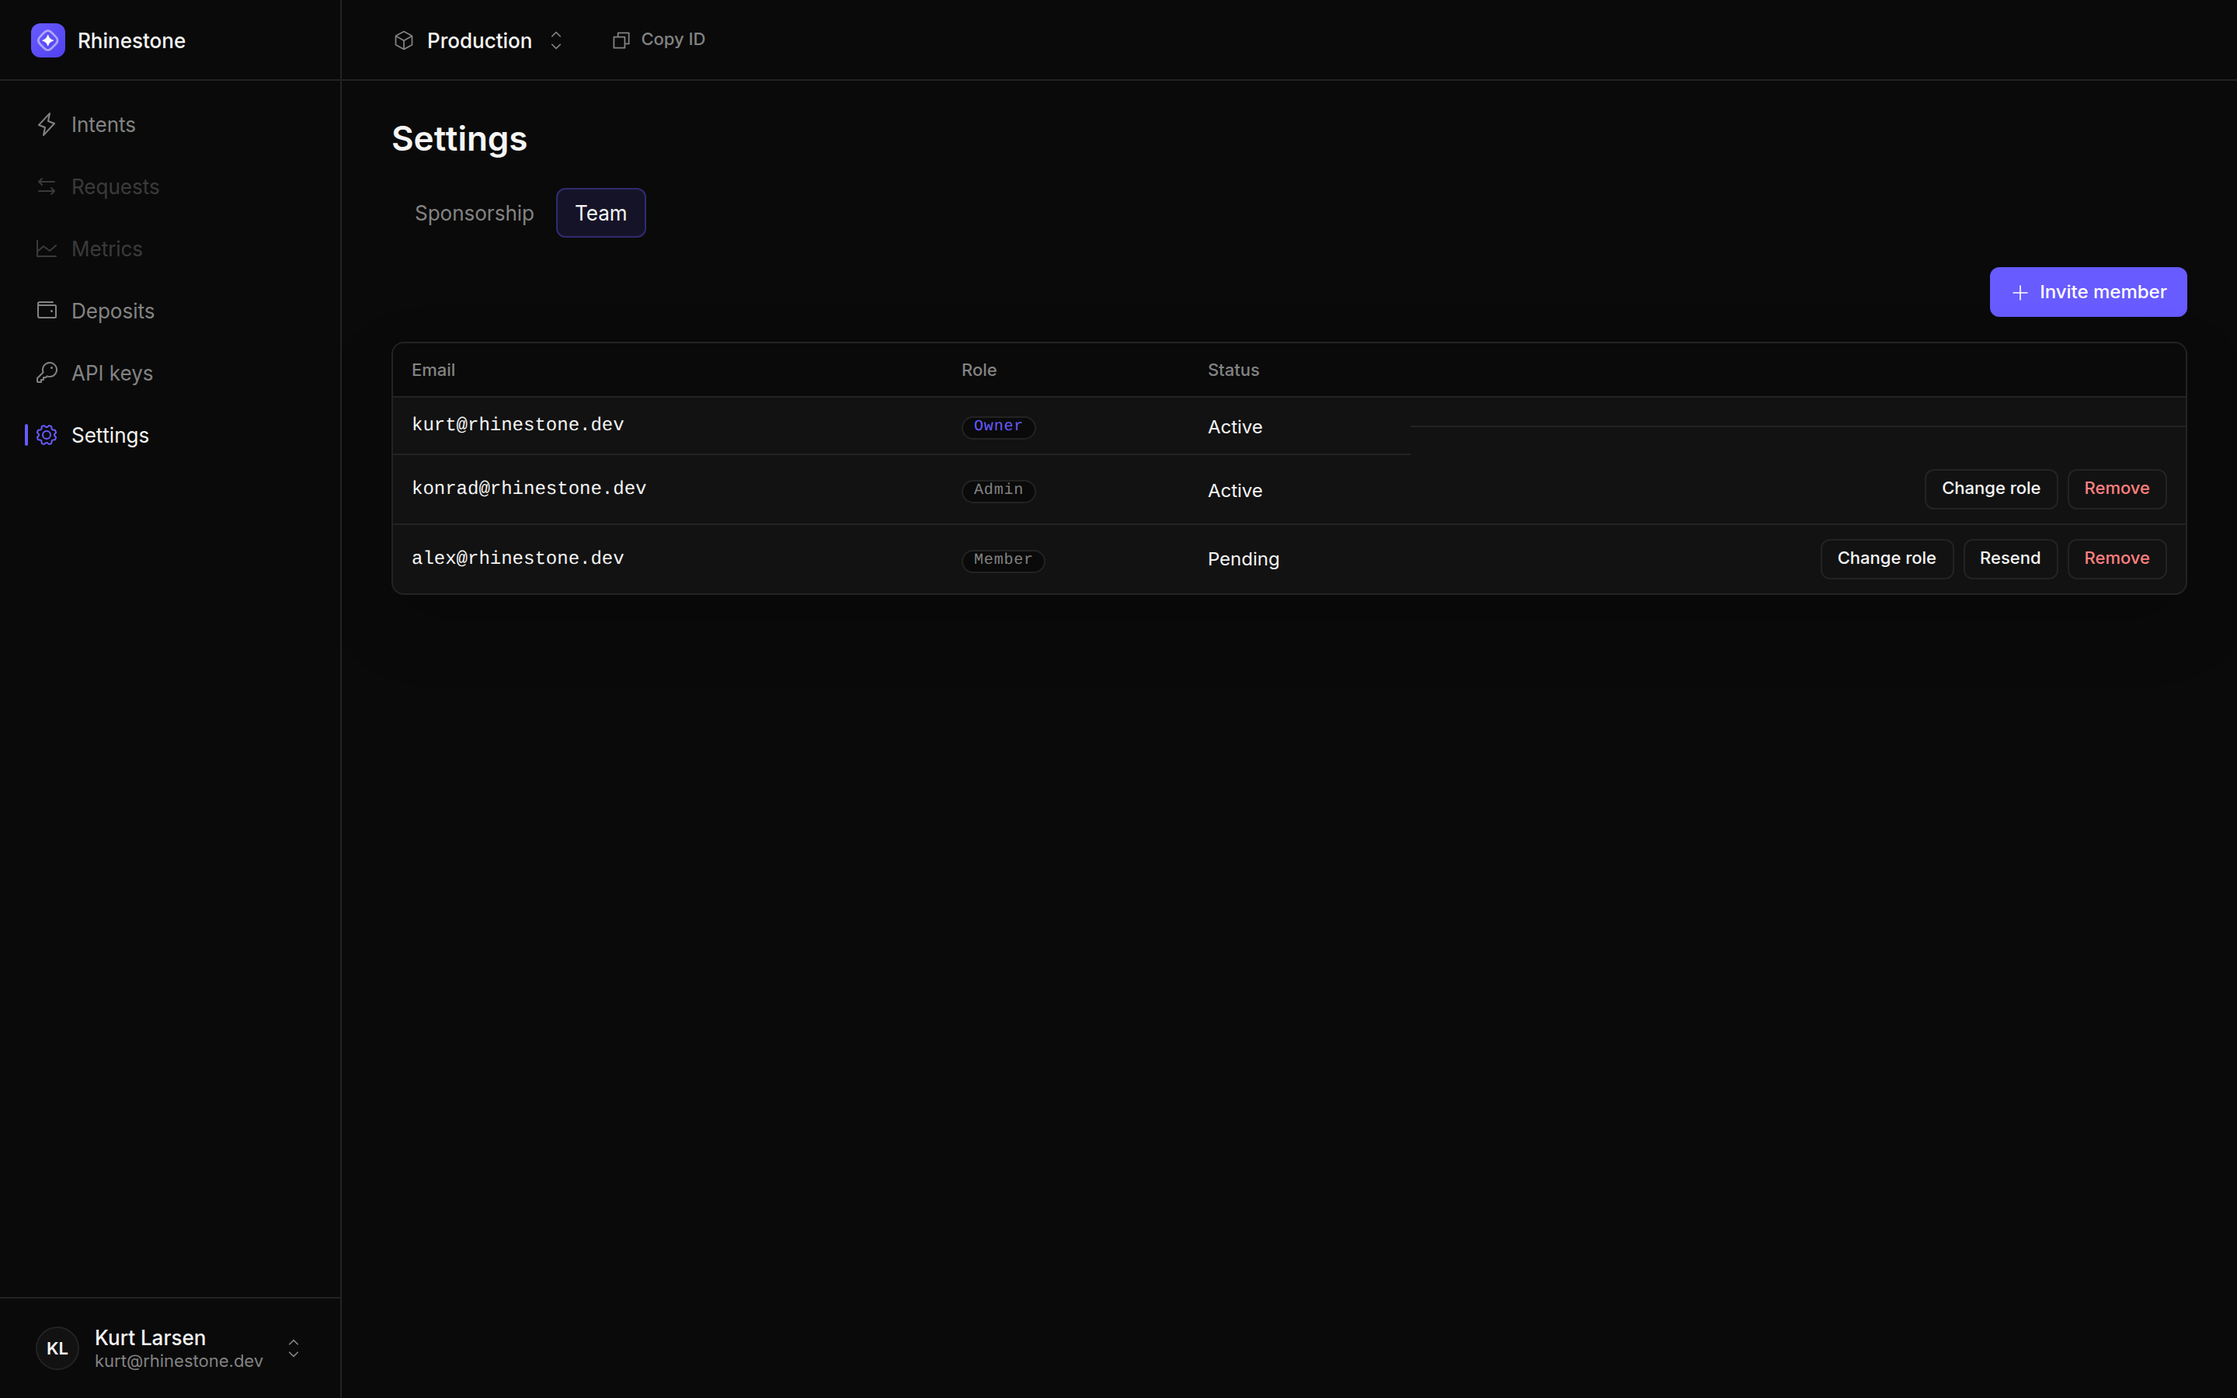
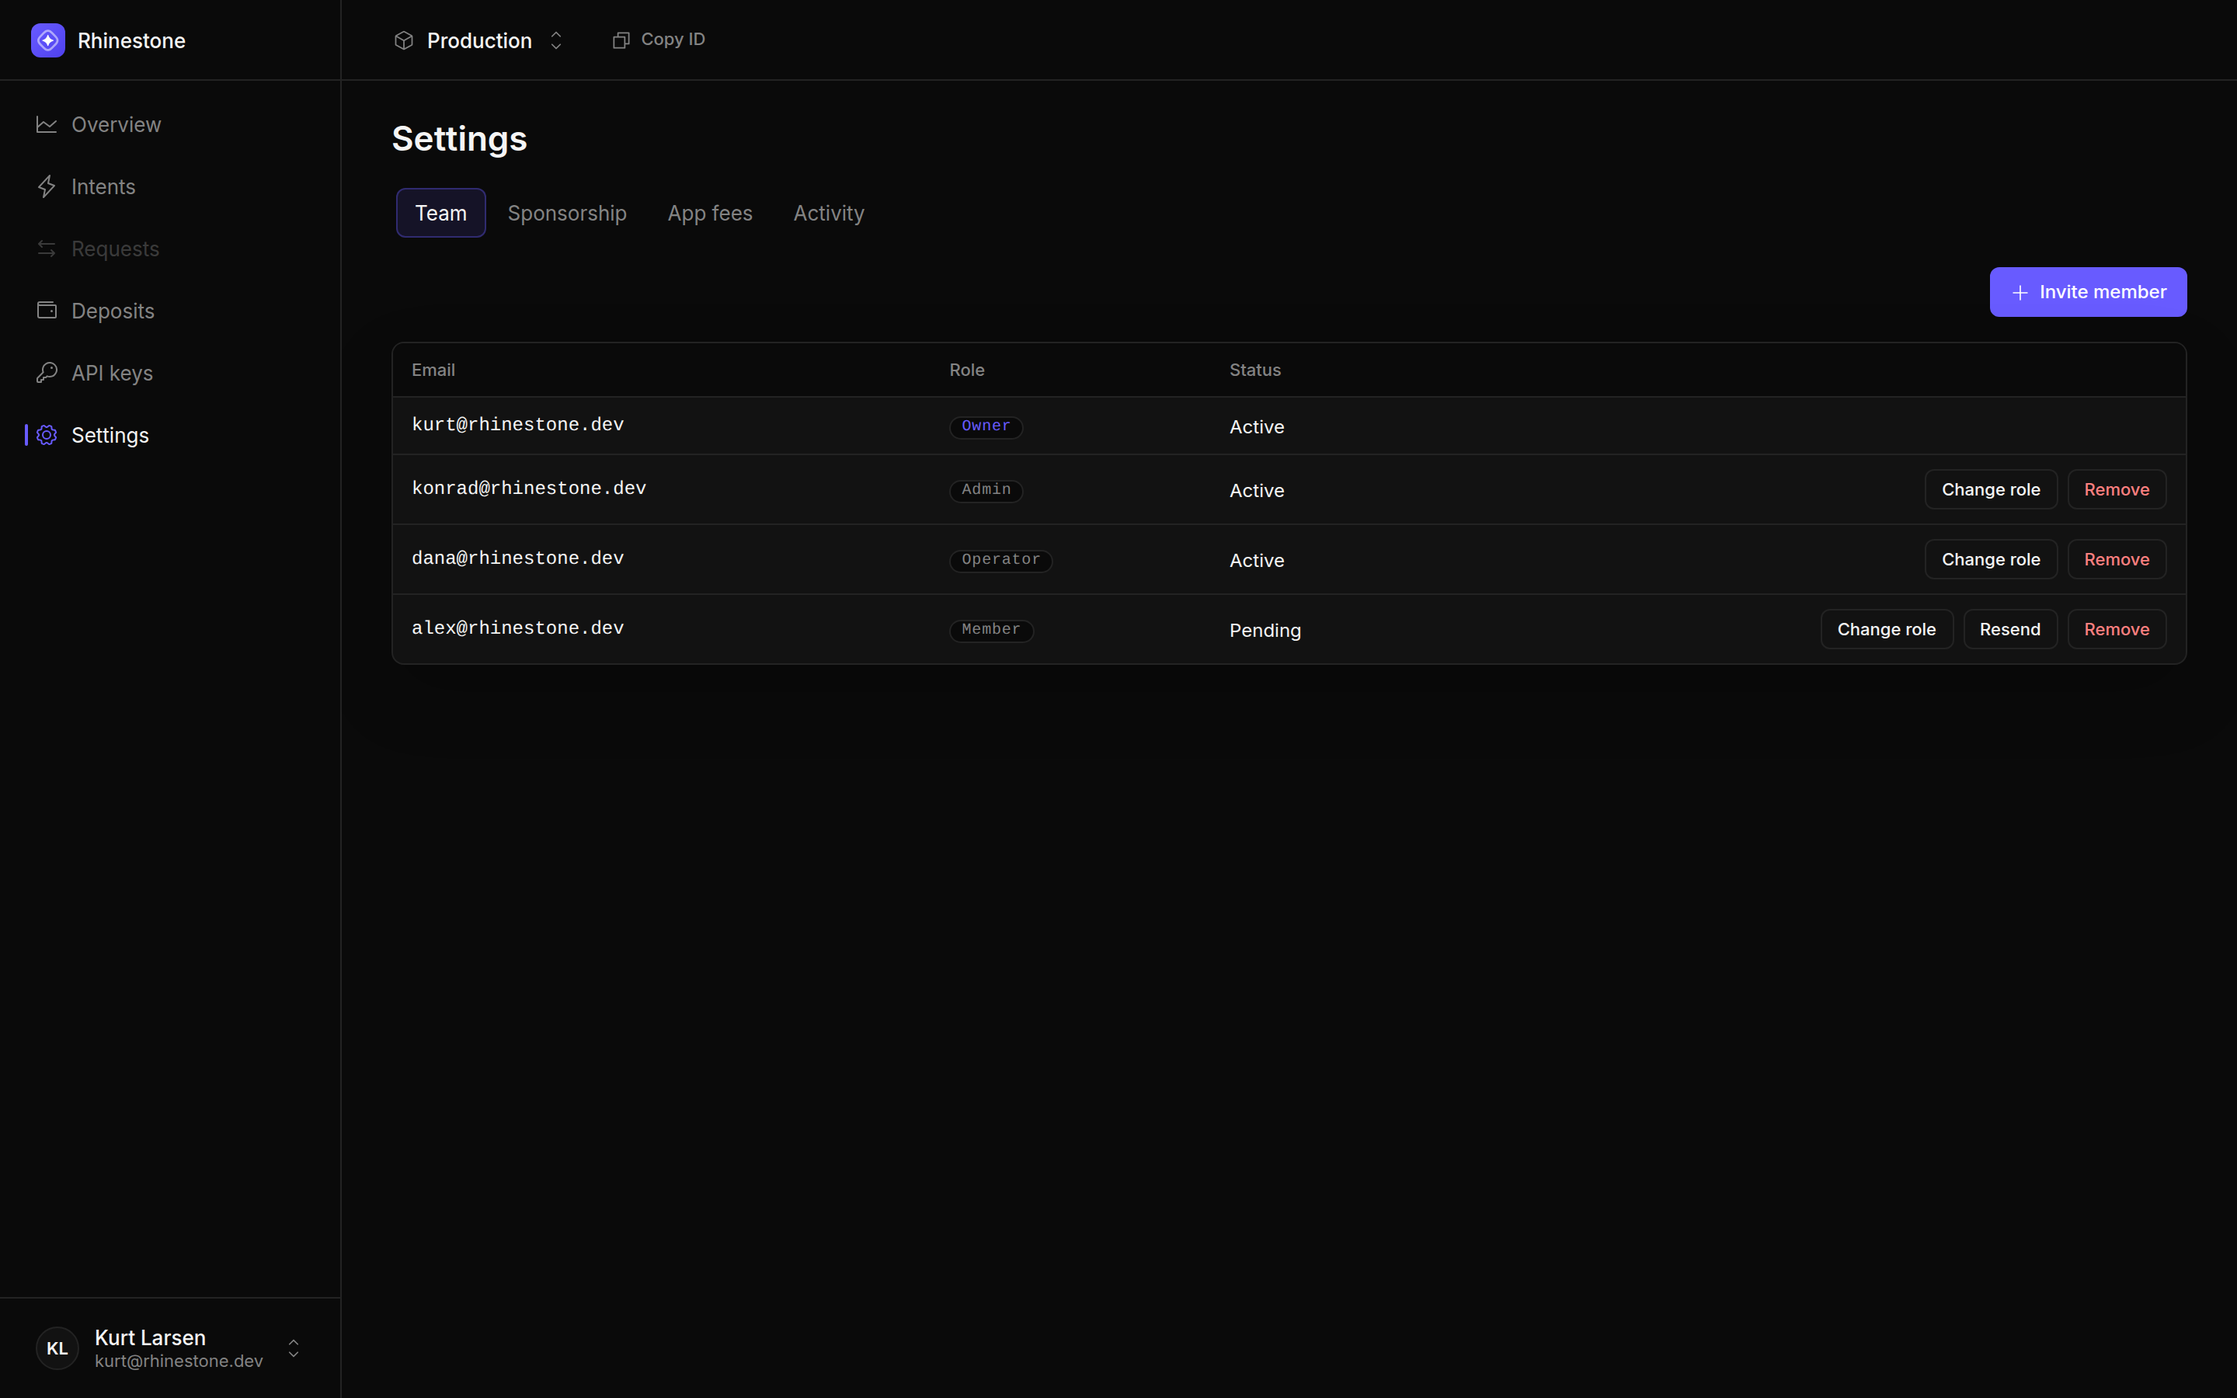
docs: refresh the dashboard screenshots after the console redesign
Re-capture the access, api-keys, team, jwt-keys and deposits images against
today's console, and fix the guide prose the product outgrew: the sidebar
section list (Overview exists, Settings holds four tabs), the retry warning
(retry is per-deposit, not per-address) and the team roles (Operator).

Tooling: the mock now also serves the dashboard-api chain catalog and metrics
overview through the console's Vite proxy, deposit fixtures match the current
row shape and are addressable by id, and the capture script reaches JWT Disable
via the key drawer and shoots retry from the deposit page.

diff --git a/.claude/skills/update-screenshots/scripts/mock-user-service.ts b/.claude/skills/update-screenshots/scripts/mock-user-service.ts
@@ -2,6 +2,10 @@
 // Returns stubbed JSON for every endpoint the dashboard hits, with CORS that
 // satisfies credentials:'include' from the Vite dev origin.
 //
+// It also answers the dashboard-api surface (`/api/*`: the chain catalog and the
+// metrics overview), which the console calls same-origin — its Vite dev server
+// proxies `/api` to this port, so one server covers both origins.
+//
 // Run: bun run mock-user-service.ts   (listens on :3000)
 // Edit the data constants below to change what renders in the screenshots.
 
@@ -55,6 +59,7 @@ const ORG = {
   members: [
     { id: 'm_kurt', role: 'OWNER', status: 'ACTIVE', email: 'kurt@rhinestone.dev', user: { name: 'Kurt Larsen', image: '', email: 'kurt@rhinestone.dev' } },
     { id: 'm_konrad', role: 'ADMIN', status: 'ACTIVE', email: 'konrad@rhinestone.dev', user: { name: 'Konrad Kopp', image: '', email: 'konrad@rhinestone.dev' } },
+    { id: 'm_dana', role: 'OPERATOR', status: 'ACTIVE', email: 'dana@rhinestone.dev', user: { name: 'Dana Reid', image: '', email: 'dana@rhinestone.dev' } },
     { id: 'm_alex', role: 'MEMBER', status: 'PENDING', email: 'alex@rhinestone.dev', user: null },
   ],
 }
@@ -79,26 +84,148 @@ const ORG_SPONSORSHIP = {
 // caps throw while rendering.
 const POLICY_CONFIG = { gasLimitPerIntentUsd: 0.5, bridgeFeeLimitPerIntentUsd: null, limitPerIntentUsd: 5, version: 3 }
 
+// Chain catalog, as the dashboard api serves it (deposit-service `/chains`,
+// normalized). The console takes chain names, the native symbol and the explorer
+// paths from here; with it missing, chain columns fall back to raw CAIP-2 ids and
+// explorer links render as plain text.
+const evmChain = (name: string, explorer: string, native = 'ETH') => ({
+  name, testnet: false, deposit: true, destination: true, vmType: 'evm' as const,
+  nativeToken: { symbol: native, address: '0x0000000000000000000000000000000000000000', decimals: 18 },
+  explorer: { url: explorer, addressPath: '/address/', txPath: '/tx/' },
+  supportedTokens: 'all' as const,
+})
+
+const CHAINS = {
+  'eip155:1': evmChain('Ethereum', 'https://etherscan.io'),
+  'eip155:10': evmChain('OP Mainnet', 'https://optimistic.etherscan.io'),
+  'eip155:56': evmChain('BNB Smart Chain', 'https://bscscan.com', 'BNB'),
+  'eip155:8453': evmChain('Base', 'https://basescan.org'),
+  'eip155:42161': evmChain('Arbitrum One', 'https://arbiscan.io'),
+}
+
+// Metrics overview (dashboard api), which the Overview page needs to render
+// anything but its "Data not available" fallback. The console asks for 30 daily
+// buckets by default; the walk is seeded rather than random so a re-capture
+// reproduces the same bars instead of churning the PNGs.
+const OVERVIEW_DAYS = 30
+
+function walk(seed: number, mean: number, spread: number): number[] {
+  let state = seed >>> 0
+  const next = (): number => {
+    state = (state * 1664525 + 1013904223) >>> 0
+    return state / 0x1_0000_0000
+  }
+  let level = mean
+  const values: number[] = []
+  for (let i = 0; i < OVERVIEW_DAYS; i++) {
+    level += (mean - level) * 0.3 + (next() - 0.5) * spread
+    values.push(Math.max(0, Math.round(level)))
+  }
+  return values
+}
+
+function bucketStart(daysAgo: number): string {
+  const date = new Date(Date.now() - daysAgo * DAY)
+  date.setUTCHours(0, 0, 0, 0)
+  return date.toISOString()
+}
+
+// `total` defaults to the sum of the buckets. Distinct-count metrics (users) pass
+// their own window-wide count, which has to be BELOW that sum — a total above it
+// reads as a data bug to anyone who looks at the chart closely.
+const series = (values: number[], delta: number | null, total?: number) => ({
+  points: values.map((value, i) => ({ date: bucketStart(OVERVIEW_DAYS - 1 - i), value })),
+  total: total ?? values.reduce((sum, value) => sum + value, 0),
+  delta,
+})
+
+const distinct = (values: number[], share: number) =>
+  Math.round(values.reduce((sum, value) => sum + value, 0) * share)
+
+const INTENT_USERS = walk(31, 96, 70)
+const DEPOSIT_USERS = walk(61, 61, 44)
+
+const OVERVIEW = {
+  range: { start: bucketStart(OVERVIEW_DAYS - 1), end: bucketStart(0) },
+  metrics: {
+    intents: {
+      volume: series(walk(11, 40_500, 26_000), 0.14),
+      count: series(walk(21, 313, 190), 0.09),
+      users: series(INTENT_USERS, 0.21, distinct(INTENT_USERS, 0.48)),
+    },
+    deposits: {
+      volume: series(walk(41, 14_100, 9_000), -0.07),
+      count: series(walk(51, 104, 62), 0.05),
+      users: series(DEPOSIT_USERS, 0.12, distinct(DEPOSIT_USERS, 0.49)),
+    },
+    chains: {
+      sources: [
+        { label: 'Base', value: 486_200 },
+        { label: 'Arbitrum One', value: 312_400 },
+        { label: 'OP Mainnet', value: 168_900 },
+        { label: 'Ethereum', value: 121_500 },
+        { label: 'Other', value: 74_300, isOther: true },
+      ],
+      destinations: [
+        { label: 'Base', value: 552_800 },
+        { label: 'Arbitrum One', value: 274_100 },
+        { label: 'Ethereum', value: 194_600 },
+        { label: 'OP Mainnet', value: 96_400 },
+        { label: 'Other', value: 45_400, isOther: true },
+      ],
+    },
+    revenue: series(walk(71, 121, 84), 0.26),
+  },
+}
+
 const USDC_BASE = '0x833589fCD6eDb6E08f4c7C32D4f71b54bdA02913'
 const USDC_ARB = '0xaf88d065e77c8cC2239327C5EDb3A432268e5831'
+const USDT_BSC = '0x55d398326f99059fF775485246999027B3197955'
 
+// Deposit rows as deposit-service serves them: addressed by a numeric `id`, with
+// the deposit address and the recipient as separate fields, and the token symbol
+// and decimals resolved per row. A null symbol renders as a short address and null
+// decimals render raw base units — correct product behavior, but both read as
+// breakage in a guide, so every fixture carries them.
 const deposit = (o: Record<string, unknown>) => ({
-  chain: 'eip155:42161', txHash: '0x' + '00'.repeat(32), token: USDC_ARB, amount: '100000000',
-  sender: '0x1111111111111111111111111111111111111111', account: '0x2222222222222222222222222222222222222222',
+  id: '90210', chain: 'eip155:42161', txHash: '0x' + '00'.repeat(32), token: USDC_ARB, amount: '100000000',
+  tokenSymbol: 'USDC', tokenDecimals: 6, targetTokenSymbol: 'USDC', targetTokenDecimals: 6,
+  sender: '0x1111111111111111111111111111111111111111',
+  depositAddress: '0x2222222222222222222222222222222222222222',
+  recipient: '0x7d1afa7b718fb893db30a3abc0cfc608aacfebb0',
   targetChain: 'eip155:8453', targetToken: USDC_BASE, status: 'completed', errorCode: null, retryable: false,
   sourceTxHash: '0x' + '11'.repeat(32), destinationTxHash: '0x' + '22'.repeat(32),
-  sourceAmount: '100000000', destinationAmount: '99800000', createdAt: ago(2 * HOUR), completedAt: ago(2 * HOUR + 30_000), ...o,
+  sourceAmount: '100000000', destinationAmount: '99800000',
+  sponsoredGasUsd: '0.18', sponsoredBridgeFeeUsd: '0.09',
+  createdAt: ago(2 * HOUR), completedAt: ago(2 * HOUR + 30_000), ...o,
+})
+
+// failed on an EVM chain -> carries both Retry and Refund (Refund needs
+// OWNER/ADMIN/OPERATOR). Also what the deposit detail route serves. A deposit
+// that never settled has no sponsorship accounting, so those fields stay off and
+// the sponsored-value panel hides itself.
+const FAILED_DEPOSIT = deposit({
+  id: '90244', txHash: '0xc3' + '00'.repeat(31), chain: 'eip155:56', token: USDT_BSC,
+  tokenSymbol: 'USDT', tokenDecimals: 18, status: 'failed', retryable: true, errorCode: 'BRIDGE-1',
+  amount: '120000000000000000000', sourceAmount: '120000000000000000000', destinationAmount: null,
+  sourceTxHash: '0x' + '33'.repeat(32), destinationTxHash: null, completedAt: null, createdAt: ago(50 * MIN),
+  depositAddress: '0x5555555555555555555555555555555555555555',
+  recipient: '0x9f2c4b8de3a1057e6b0c8d4f2a9e7b135c60d8a4',
+  sponsoredGasUsd: undefined, sponsoredBridgeFeeUsd: undefined,
 })
 
 const DEPOSITS = [
-  deposit({ txHash: '0xa1' + '00'.repeat(31), amount: '250000000', sourceAmount: '250000000', destinationAmount: '249500000', createdAt: ago(35 * MIN), completedAt: ago(34 * MIN), account: '0x3333333333333333333333333333333333333333' }),
-  deposit({ txHash: '0xb2' + '00'.repeat(31), chain: 'eip155:8453', token: USDC_BASE, status: 'processing', amount: '50000000', sourceAmount: '50000000', destinationAmount: null, destinationTxHash: null, completedAt: null, createdAt: ago(6 * MIN), account: '0x4444444444444444444444444444444444444444' }),
-  // failed + retryable on an EVM chain -> shows both Retry and Refund (OWNER/ADMIN)
-  deposit({ txHash: '0xc3' + '00'.repeat(31), chain: 'eip155:56', token: '0x55d398326f99059fF775485246999027B3197955', status: 'failed', retryable: true, errorCode: 'BRIDGE-1', amount: '120000000000000000000', sourceAmount: '120000000000000000000', destinationAmount: null, sourceTxHash: '0x' + '33'.repeat(32), destinationTxHash: null, completedAt: null, createdAt: ago(50 * MIN), account: '0x5555555555555555555555555555555555555555' }),
-  deposit({ txHash: '0xd4' + '00'.repeat(31), createdAt: ago(3 * HOUR), completedAt: ago(3 * HOUR - 40_000), account: '0x6666666666666666666666666666666666666666' }),
+  deposit({ id: '90251', txHash: '0xa1' + '00'.repeat(31), amount: '250000000', sourceAmount: '250000000', destinationAmount: '249500000', createdAt: ago(35 * MIN), completedAt: ago(34 * MIN), depositAddress: '0x3333333333333333333333333333333333333333', recipient: '0x4c1b6f0d92a7e8534bb0cd1e7f6a2093d85be417' }),
+  deposit({ id: '90248', txHash: '0xb2' + '00'.repeat(31), chain: 'eip155:8453', token: USDC_BASE, targetChain: 'eip155:42161', targetToken: USDC_ARB, status: 'processing', amount: '50000000', sourceAmount: '50000000', destinationAmount: null, destinationTxHash: null, completedAt: null, createdAt: ago(6 * MIN), depositAddress: '0x4444444444444444444444444444444444444444', recipient: '0xe3708a6b41d95c27f0a4d2b9e56718cf3d0a9b52' }),
+  FAILED_DEPOSIT,
+  deposit({ id: '90232', txHash: '0xd4' + '00'.repeat(31), createdAt: ago(3 * HOUR), completedAt: ago(3 * HOUR - 40_000), depositAddress: '0x6666666666666666666666666666666666666666', recipient: '0xb85d2f0a6c194e73df85a0b4c72e9163fa2d5e08' }),
 ]
 
 const DEPOSIT_STATS = { totalDeposits: 1284, uniqueUsers: 342, volumeUsd: '48213.55' }
+
+// Deposit detail is fetched by id. Matched on a digits-only pattern so it can't
+// shadow the sibling `/deposits/stats` and `/deposits/config` paths.
+const DEPOSIT_BY_ID = /^\/users\/me\/deposits\/\d+$/
 
 let intentSeq = 0
 const intent = (o: Record<string, unknown>) => ({
@@ -154,6 +281,9 @@ Bun.serve({
     if (p.endsWith('/policy-config') && m === 'GET') return json(POLICY_CONFIG)
     if (p === '/users/me/deposits' && m === 'GET') return json({ deposits: DEPOSITS, nextCursor: null })
     if (p === '/users/me/deposits/stats') return json(DEPOSIT_STATS)
+    if (DEPOSIT_BY_ID.test(p) && m === 'GET') return json(FAILED_DEPOSIT)
+    if (p === '/api/chains' && m === 'GET') return json(CHAINS)
+    if (p.endsWith('/overview') && m === 'GET') return json(OVERVIEW)
     if (p.endsWith('/integrator-keys') && m === 'GET') return json(JWT_KEYS)
     if (p === '/users/me/intents' && m === 'GET') return json(INTENTS)
     if (p.endsWith('/api-keys') && m === 'POST') return json(createdApiKey)

diff --git a/.claude/skills/update-screenshots/SKILL.md b/.claude/skills/update-screenshots/SKILL.md
@@ -9,6 +9,8 @@ Re-captures the dashboard screenshots that the docs guides embed (everything und
 
 Why this works: dashboard auth is entirely client-side — `pages/Main.vue` only checks `authClient.useSession()` (better-auth `GET /users/auth/get-session`); every other call is a `credentials:'include'` fetch. Return a non-null session + stubbed data and the app renders fully populated.
 
+The same mock also answers the dashboard-api calls (`/api/chains`, `/api/me/projects/:id/overview`), which the console makes same-origin — its Vite dev server proxies `/api` to port 3000. So leave `VITE_DASHBOARD_API_BASE_URL` unset. Without those two the Overview page renders its "Data not available" fallback and deposit rows show raw `eip155:…` chain ids.
+
 ## Prerequisites
 
 - A local checkout of the `dashboard` repo (sibling to this `docs` repo by default; override with `DASHBOARD_DIR`).
@@ -30,6 +32,7 @@ Why this works: dashboard auth is entirely client-side — `pages/Main.vue` only
    VITE_USER_SERVICE_BASE_URL=http://localhost:3000
    VITE_APP_BASE_URL=http://localhost:5173
    ```
+   Leave `VITE_METRICS_ENABLED` unset: metrics are on in production, and the nav shot is the Overview page (`/` redirects there).
 
 4. **Boot both servers.** Background them with `setsid` (see Gotchas):
    ```bash
@@ -53,12 +56,17 @@ In `scripts/shoot.mjs`, navigate to the route and call `shoot(page, '<guide>/<na
 
 Role-gated controls (Create key, scopes editor, Refund) only render when the mock session `user.email` matches an org member with role OWNER/ADMIN — keep them aligned in `mock-user-service.ts`.
 
+For a shot of a single deposit, navigate to `/deposits/<id>`; the mock serves its failed fixture for any numeric id.
+
 ## Gotchas
 
 - **Backgrounding:** use `setsid bash -c '…' </dev/null &`. A plain `&` (or a harness "run in background") gets the server killed by a signal (exit 144) when the launching turn ends.
 - **Killing servers:** never `pkill -f "vite"` / `pgrep -f "vite"` — the pattern matches the shell running your own command and kills it (also exit 144). Find the PID (`pgrep -af vite`) and `kill <pid>`.
 - **Playwright MCP** leaves a stale chrome `SingletonLock` ("Browser is already in use"). This skill drives Playwright via a script instead — don't mix the two.
 - **Route drift:** check each shot's path against the dashboard router (`apps/console/src/main.ts`) before re-shooting. The settings routes already swapped once (`/settings` is Team, `/settings/sponsorship` is Sponsorship), which silently pointed the sponsorship shot at another page.
+- **Fixture drift:** the mock's shapes have to track the API types (deposit rows come from `services/deposit.ts`, the `/api/*` payloads from `packages/shared/src/index.ts`). A field the console has since renamed doesn't error — it renders as `—`, a raw id, or raw base units.
+- **Loading states:** metric blocks and deposit stat cards render placeholders until their fetches land. `appReady()` waits for a chart bar; add a similar wait rather than a longer sleep when a new screen shows one.
+- **Row-level clicks:** table cells holding an id (JWT keys, deposits) swallow the click to copy their value. Click a neutral cell — e.g. `td.col-date` — to open the row's drawer.
 - **CORS:** the mock must reflect the dashboard origin and `Access-Control-Allow-Credentials: true`, and answer `OPTIONS` (the service sets `Content-Type` on GETs, triggering preflight). Already handled in `scripts/mock-user-service.ts`.
 
 ## Files
